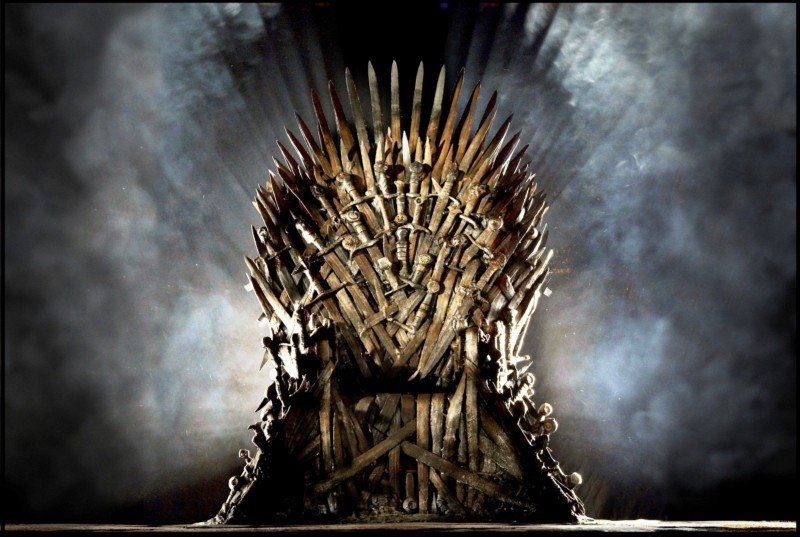
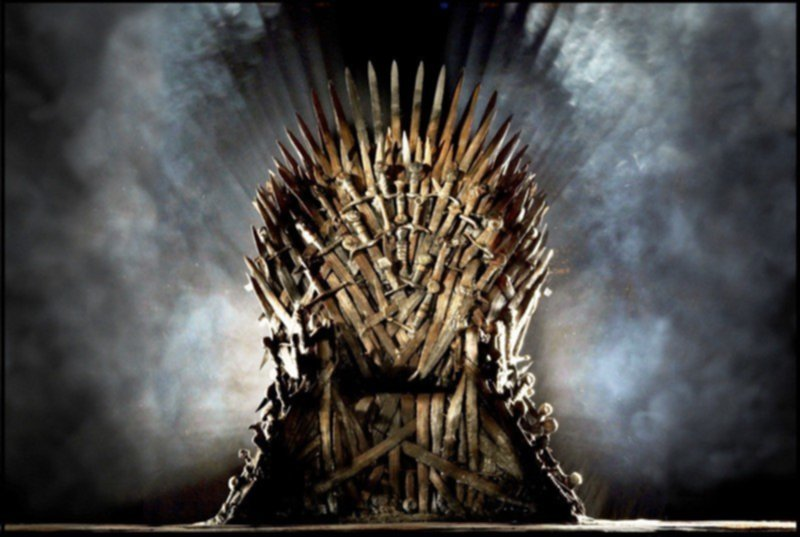
Optimize images sizes. From png to jpg

diff --git a/_pages/index.html b/_pages/index.html
@@ -48,7 +48,7 @@ bulma_accordion: true
       <h1 class="title has-text-centered" >
         What is Global Startup Weekend AI (GSWAI)? 
       </h1>
-      <video width="70%" height="auto" preload="none" poster="/assets/images/GSWAI_canada.png" controls><source 
+      <video width="100%" height="auto" preload="none" poster="/assets/images/photos/StartupWeekend.jpg" controls><source 
         src="/assets/videos/SWAIMontreal.mp4" type="video/mp4"></video><br>
       GSWAI is a global initiative that started in Paris in 2016, and after a 
       success, it went global  to make artificial intelligence technologies 
@@ -261,7 +261,7 @@ bulma_accordion: true
         <a href="/articles"</a>WHAT’S THE LATEST
       </h1>
       <div class="columns">
-        {% for post in site.data.articles limit:2 offset:1 %}
+        {% for post in site.data.articles limit:3 offset:1 %}
         <div class="column is-one-third">
           <div class="card">
             <div class="card-image">
@@ -292,11 +292,6 @@ bulma_accordion: true
           </div>
         </div>
         {% endfor %}
-        <div class="column is-one-third">
-          <iframe width="100%" height="315" 
-            src="https://www.youtube.com/embed/GvzNlcIJz1Y" frameborder="0" 
-            allow="autoplay; encrypted-media" allowfullscreen></iframe>
-        </div>
       </div>
     </div>
   </div>

diff --git a/assets/css/application.scss b/assets/css/application.scss
@@ -3,15 +3,15 @@
 ---
 
 //// 1. Import the initial variables
-@import "bulma/sass/utilities/initial-variables";
-@import "bulma/sass/utilities/functions";
-
+//@import "bulma/sass/utilities/initial-variables";
+//@import "bulma/sass/utilities/functions";
+//
 // Imports
-@import 'variables';
+//@import 'variables';
 //
 //// Bulma.io CSS Framework
 ////@import "bulma/bulma";
-@import "bulma/sass/utilities/all";
+//@import "bulma/sass/utilities/all";
 //@import "bulma/sass/base/all";
 //@import "bulma/sass/components/card";
 //@import "bulma/sass/components/dropdown";
@@ -28,16 +28,16 @@
 //@import "bulma/sass/elements/notification";
 //@import "bulma/sass/elements/tag";
 //@import "bulma/sass/elements/title";
-@import "bulma/sass/grid/columns";
-@import "bulma/sass/grid/tiles";
+//@import "bulma/sass/grid/columns";
+//@import "bulma/sass/grid/tiles";
 //@import "bulma/sass/layout/footer";
 //@import "bulma/sass/layout/hero";
 //@import "bulma/sass/layout/section";
 //@import "bulma/sass/utilities/controls";
 
-// Bulma plugins
-@import "bulma-carousel/src/sass/index";
-@import "bulma-accordion/src/sass/index";
+//// Bulma plugins
+//@import "bulma-carousel/src/sass/index";
+//@import "bulma-accordion/src/sass/index";
 
 
 // Font-Awesome
@@ -58,4 +58,3 @@
     margin-bottom: 5px;
   }
 }
-

diff --git a/_includes/main.scss b/_includes/main.scss
@@ -24,16 +24,16 @@
 @import "bulma/sass/elements/notification";
 @import "bulma/sass/elements/tag";
 @import "bulma/sass/elements/title";
-//@import "bulma/sass/grid/columns";
-//@import "bulma/sass/grid/tiles";
+@import "bulma/sass/grid/columns";
+@import "bulma/sass/grid/tiles";
 @import "bulma/sass/layout/footer";
 @import "bulma/sass/layout/hero";
 @import "bulma/sass/layout/section";
 @import "bulma/sass/utilities/controls";
 
 // Bulma plugins
-//@import "bulma-carousel/src/sass/index";
-//@import "bulma-accordion/src/sass/index";
+@import "bulma-carousel/src/sass/index";
+@import "bulma-accordion/src/sass/index";
 //
 //
 //// Font-Awesome

diff --git a/_sass/_variables.scss b/_sass/_variables.scss
@@ -11,7 +11,7 @@ $navbar-burger-color: $white;
 
 //$dimensions: 16 24 32 48 64 96 128 256 512;
 
-.has-bg-img { background: url('/assets/images/GSWAI_withoutlogo.png')center 
+.has-bg-img { background: url('/assets/images/GSWAI_withoutlogo.jpg')center 
 center; background-size:cover;  opacity: 1.00; filter: alpha(opacity=1.00); }
 
 .is-horizontal-center {
